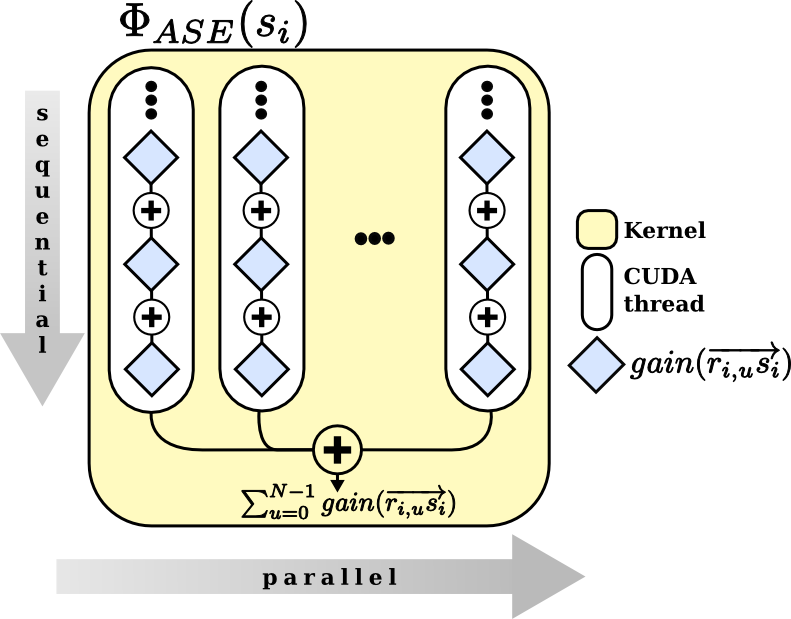
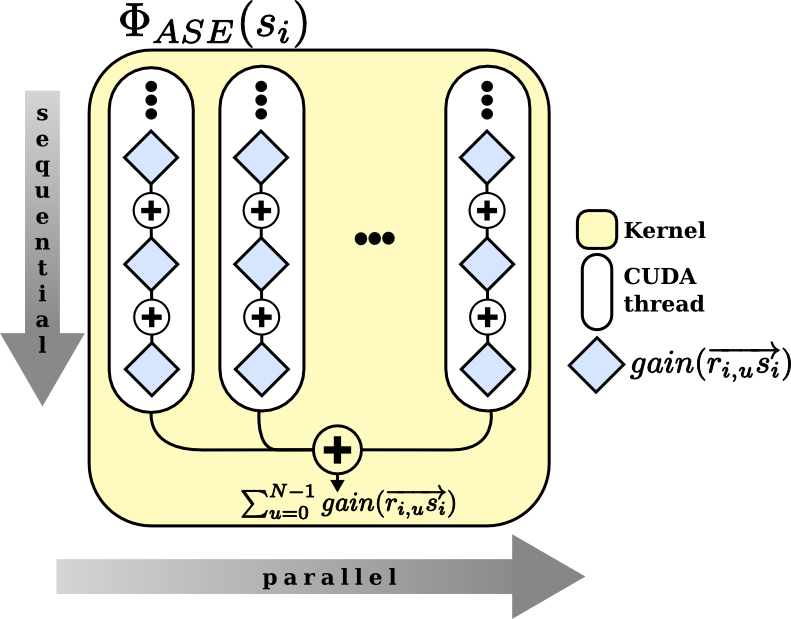
* arrows of figure 6 and 7 more visible in print version

Changed region(s): [[0.182, 0.8595, 0.7585, 1.0], [0.0, 0.1535, 0.1214, 0.6446]]

diff --git a/paper/methods.tex b/paper/methods.tex
@@ -79,7 +79,7 @@ GPUs is almost linear, which was tested with up to 4 GPUs.
 
 \begin{figure}[H]
   \centerline
-  {\resizebox{0.5\textwidth}{!}{\includegraphics{graphics/kernel_detail2.png}}}
+  {\resizebox{0.5\textwidth}{!}{\includegraphics{graphics/kernel_detail3.png}}}
   \caption{$\Phi_{ASE}$ kernel with CUDA threads}
   \label{graphic:kernel}
 \end{figure}
